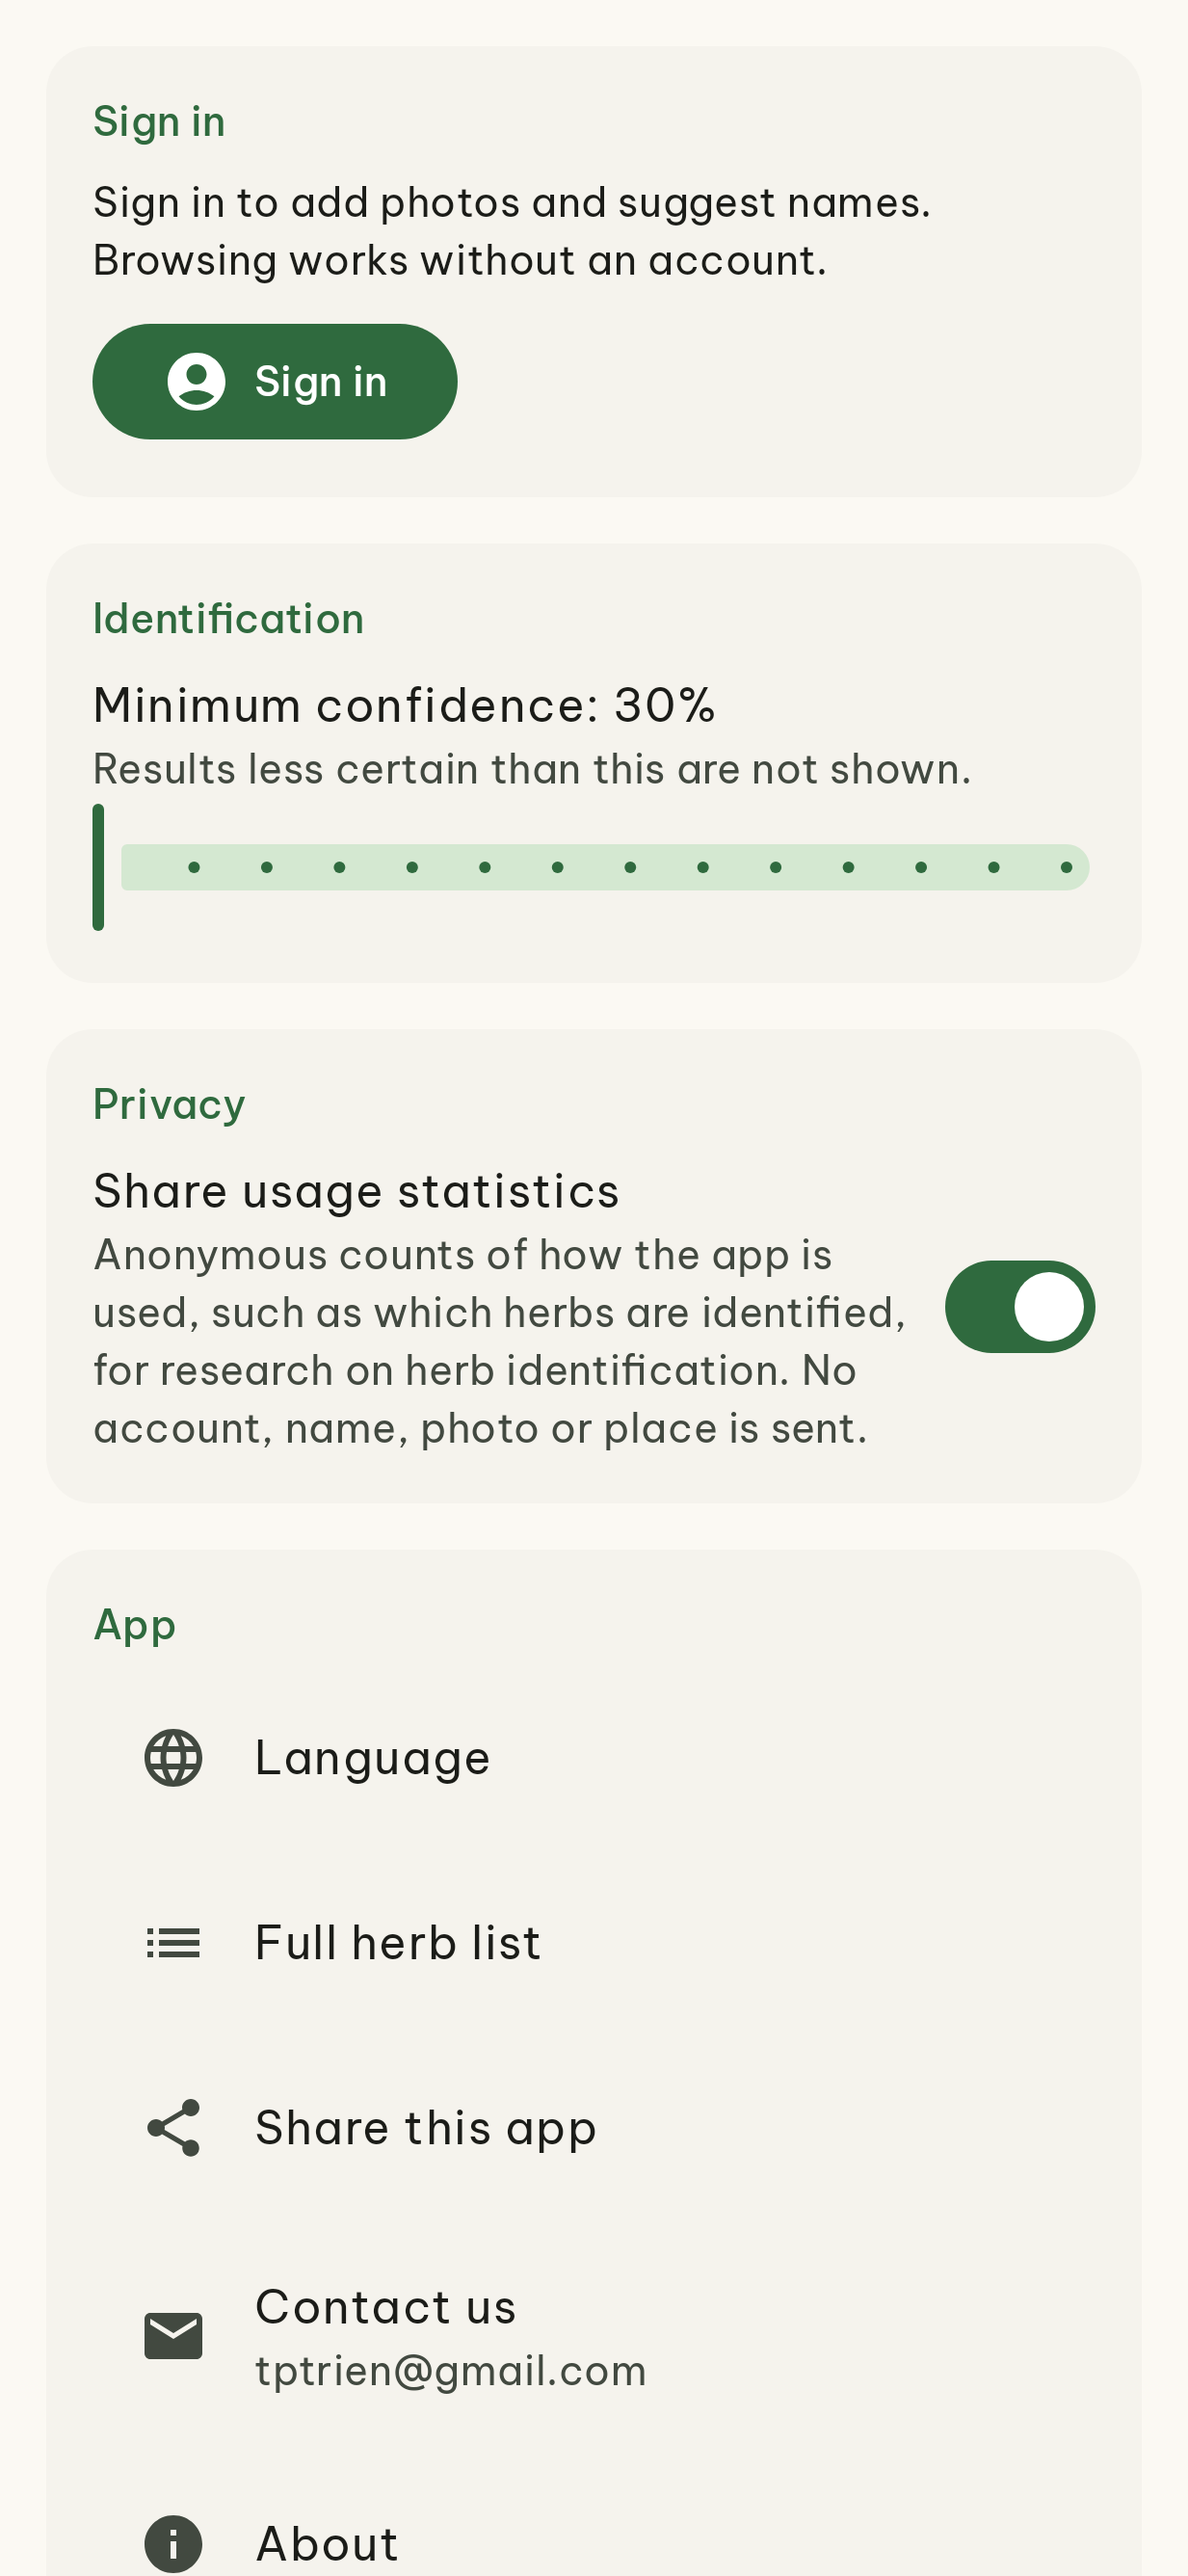
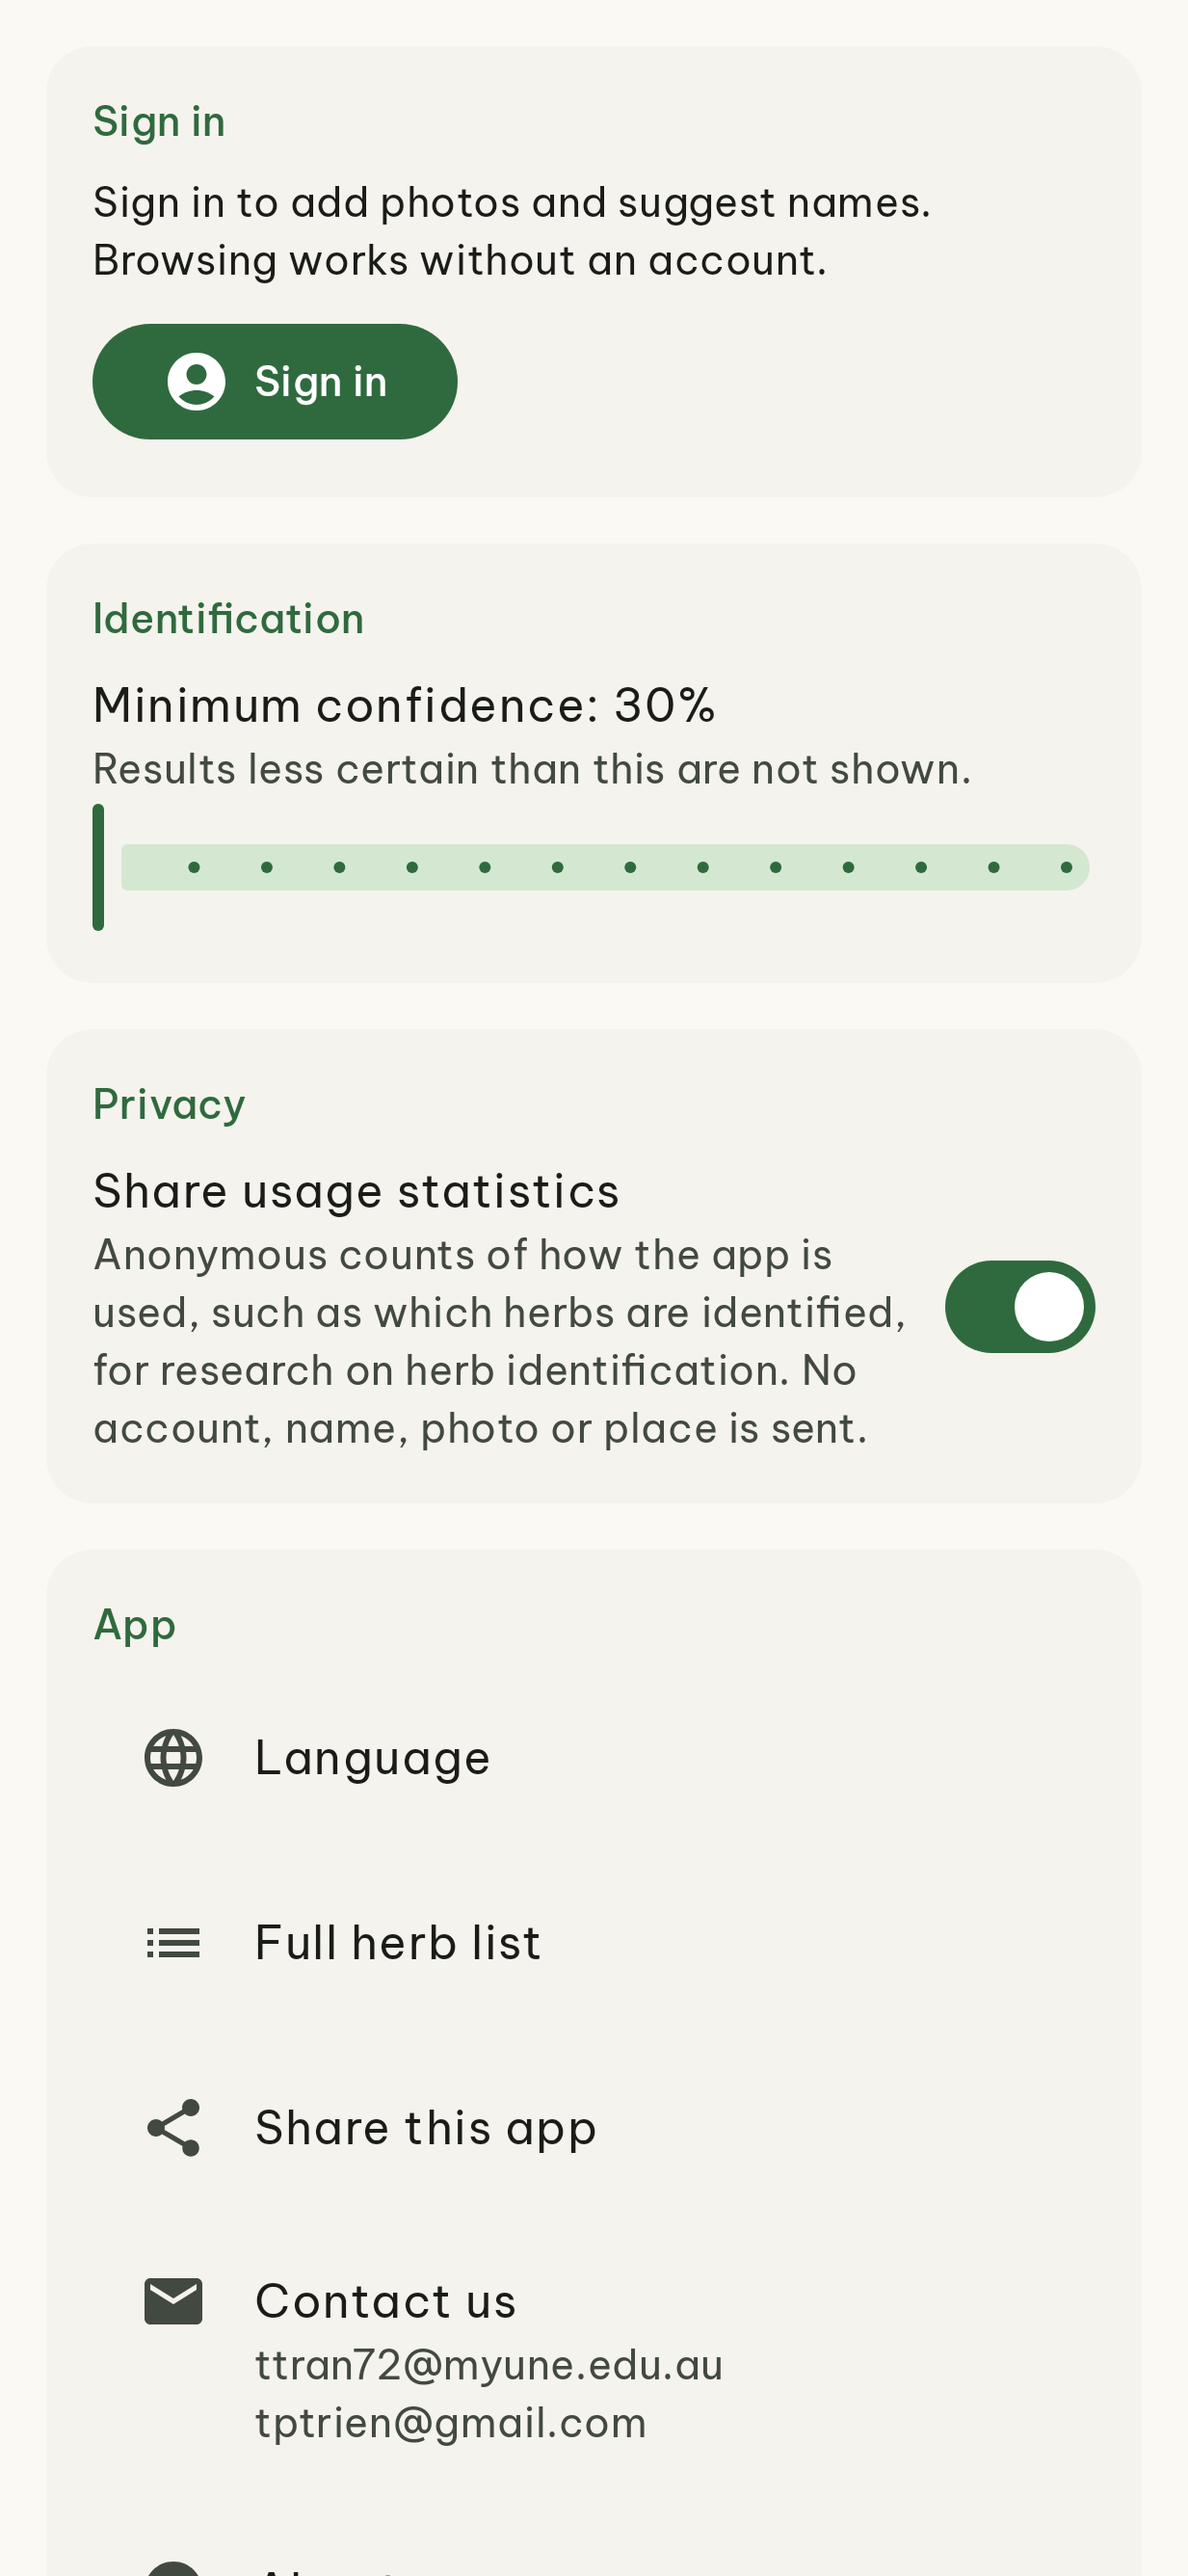
Android map frames its pins after layout; Profile lists both contact emails
- The species map on Android fitted its pins before the map had a size, so Mapbox gave the
  whole globe; it now uses the form of cameraForCoordinates that waits for the size, and
  never zooms in closer than for a single pin.
- Contact us shows ttran72@myune.edu.au first, then tptrien@gmail.com, and opens one email
  to both.

Changed region(s): [[0.2157, 0.8694, 0.5547, 0.9936], [0.1233, 0.9626, 0.1849, 1.0], [0.1233, 0.8694, 0.1849, 0.9315]]

diff --git a/feature/profile/src/commonMain/kotlin/com/uri/lee/dl/feature/profile/ProfileScreen.kt b/feature/profile/src/commonMain/kotlin/com/uri/lee/dl/feature/profile/ProfileScreen.kt
@@ -129,8 +129,11 @@ fun ProfileScreen(state: ProfileState, onAction: (ProfileAction) -> Unit, action
                 actions.onOpenLanguageSettings?.let { LinkRow(Icons.Filled.Language, stringResource(Res.string.profile_language), onClick = it) }
                 LinkRow(Icons.AutoMirrored.Filled.List, stringResource(Res.string.profile_full_list)) { uriHandler.openUri(HERB_LIST_URL) }
                 actions.onShareApp?.let { LinkRow(Icons.Filled.Share, stringResource(Res.string.profile_share), onClick = it) }
-                // The address too: without a mail app set up, a mailto link does nothing
-                LinkRow(Icons.Filled.Email, stringResource(Res.string.profile_contact), supporting = CONTACT_EMAIL) { uriHandler.openUri("mailto:$CONTACT_EMAIL") }
+                // The addresses too: without a mail app set up, a mailto link does nothing. One email to both,
+                // the university's first
+                LinkRow(Icons.Filled.Email, stringResource(Res.string.profile_contact), supporting = CONTACT_EMAILS.joinToString("\n")) {
+                    uriHandler.openUri("mailto:" + CONTACT_EMAILS.joinToString(","))
+                }
                 // In Vietnamese for an app shown in Vietnamese; the legal pages stay English only
                 val about = if (Locale.current.language == "vi") LegalLinks.ABOUT_VI else LegalLinks.ABOUT
                 LinkRow(Icons.Filled.Info, stringResource(Res.string.profile_about)) { uriHandler.openUri(about) }
@@ -266,4 +269,4 @@ private fun LinkRow(icon: ImageVector, label: String, supporting: String? = null
 }
 
 private const val HERB_LIST_URL = "https://docs.google.com/spreadsheets/d/16IpEYlpkd7NW3XHXUvhdhJf8LySuhVRLooA7c1SAzOs/edit?usp=sharing"
-private const val CONTACT_EMAIL = "tptrien@gmail.com"
+private val CONTACT_EMAILS = listOf("ttran72@myune.edu.au", "tptrien@gmail.com")

diff --git a/core/maps/src/androidMain/kotlin/com/uri/lee/dl/core/maps/HerbMap.android.kt b/core/maps/src/androidMain/kotlin/com/uri/lee/dl/core/maps/HerbMap.android.kt
@@ -68,12 +68,17 @@ actual fun HerbMap(points: List<LatLng>, modifier: Modifier, interactive: Boolea
             state.framedPoints = points
             if (!frame) return@AndroidView
             val geo = points.map { Point.fromLngLat(it.longitude, it.latitude) }
-            val camera = when (geo.size) {
-                0 -> CameraOptions.Builder().center(Point.fromLngLat(DefaultCenter.longitude, DefaultCenter.latitude)).zoom(DEFAULT_ZOOM).build()
-                1 -> CameraOptions.Builder().center(geo.single()).zoom(SINGLE_POINT_ZOOM).build()
-                else -> map.mapboxMap.cameraForCoordinates(geo, CameraOptions.Builder().build(), EdgeInsets(64.0, 64.0, 64.0, 64.0), null, null)
+            when (geo.size) {
+                0 -> map.mapboxMap.setCamera(
+                    CameraOptions.Builder().center(Point.fromLngLat(DefaultCenter.longitude, DefaultCenter.latitude)).zoom(DEFAULT_ZOOM).build(),
+                )
+                1 -> map.mapboxMap.setCamera(CameraOptions.Builder().center(geo.single()).zoom(SINGLE_POINT_ZOOM).build())
+                // Fitting points needs the map's size, which it doesn't have before its first layout: this
+                // form waits for it (the immediate one gave the whole globe, zoom 0)
+                else -> map.mapboxMap.cameraForCoordinates(
+                    geo, CameraOptions.Builder().build(), EdgeInsets(64.0, 64.0, 64.0, 64.0), SINGLE_POINT_ZOOM, null,
+                ) { camera -> map.mapboxMap.setCamera(camera) }
             }
-            map.mapboxMap.setCamera(camera)
         },
     )
 }
